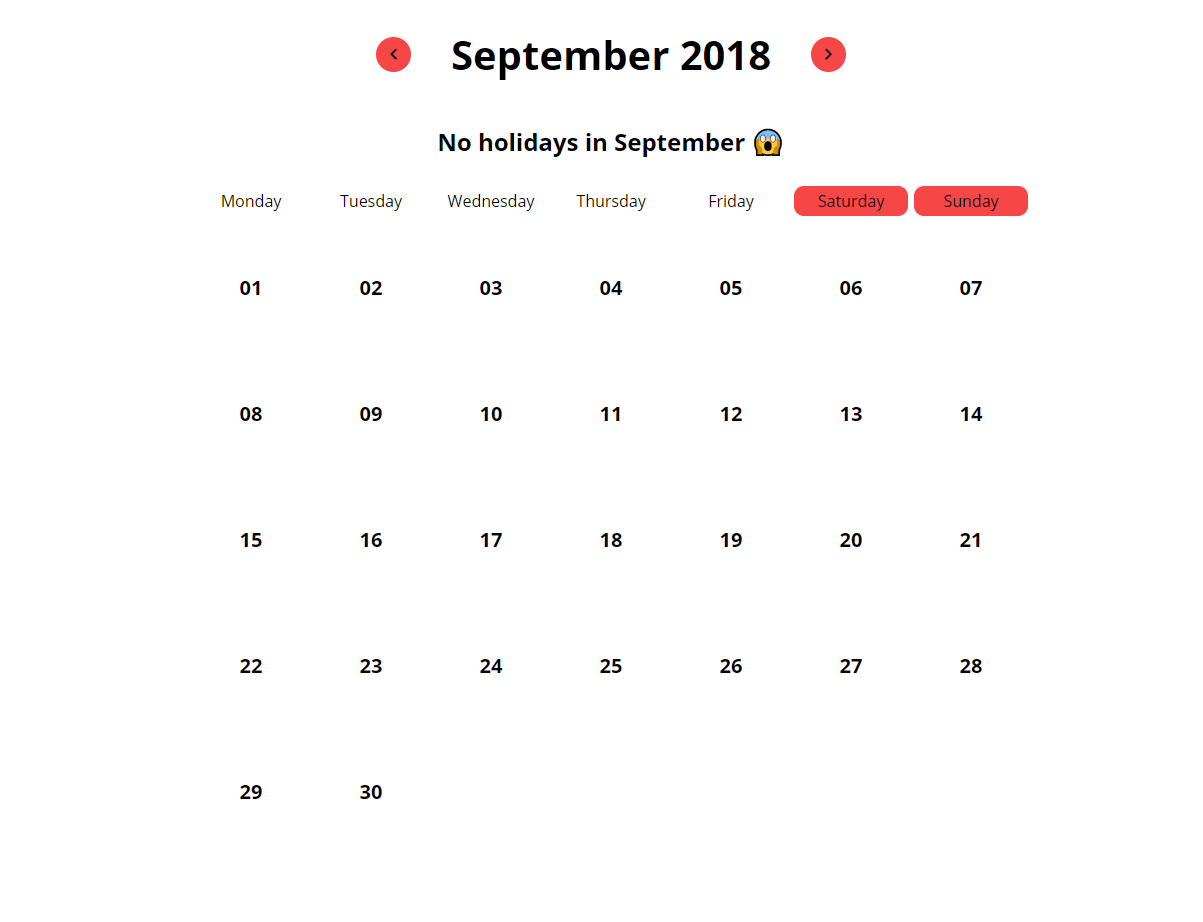
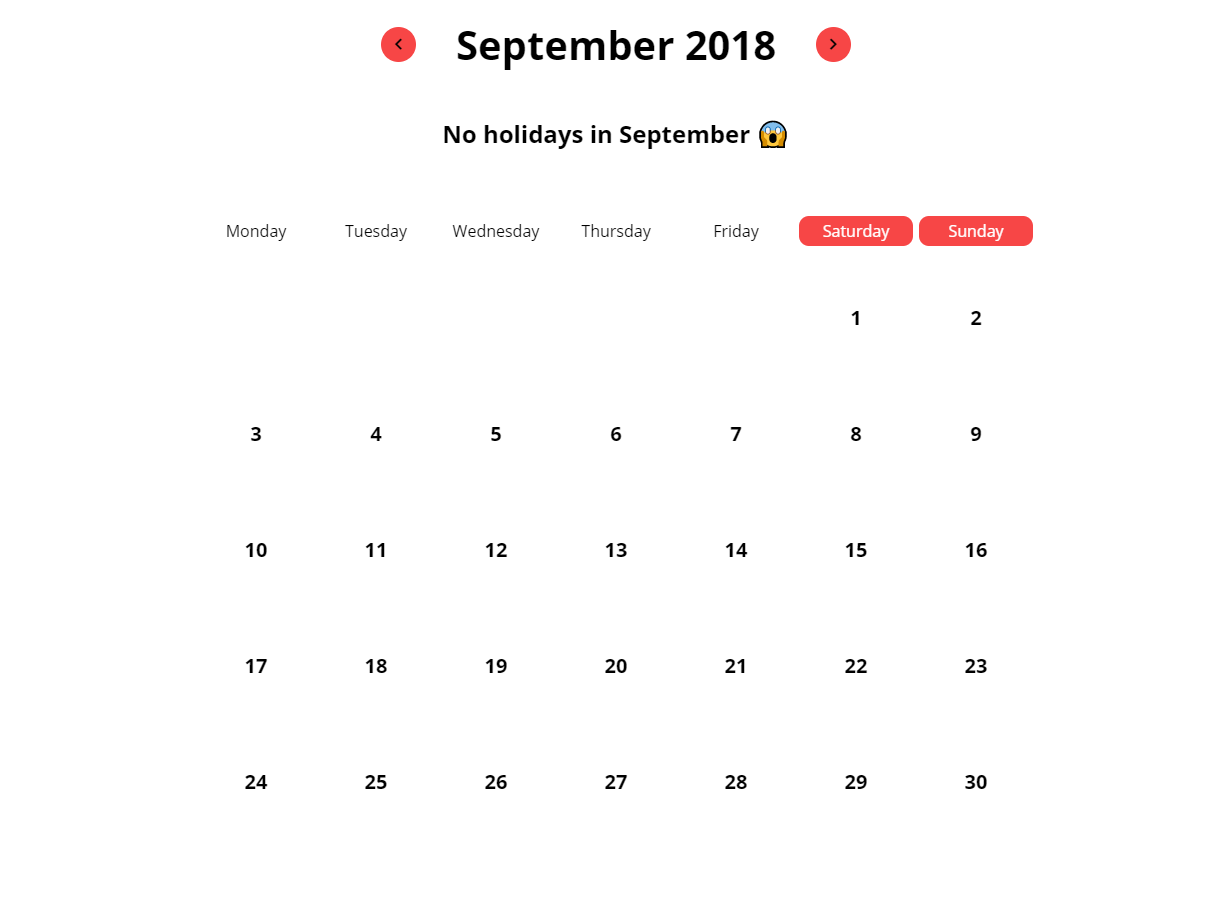
bug fixed - the month always starts on Monday. minor update

diff --git a/js/main.js b/js/main.js
@@ -32,7 +32,6 @@ $(document).ready(function () {
         if(baseMonth.month() < 11){
             //console.log(baseMonth.month())
             baseMonth = baseMonth.add(1,"M");
-            $('.month-list').children().remove();
             printMonth(template, baseMonth);
             printHoliday(baseMonth);
 
@@ -50,7 +49,6 @@ $(document).ready(function () {
         if(baseMonth.month() > 0){
             //console.log(baseMonth.month())
             baseMonth = baseMonth.subtract(1,"M");
-            $('.month-list').children().remove();
             printMonth(template, baseMonth);
             printHoliday(baseMonth);
 
@@ -70,6 +68,7 @@ $(document).ready(function () {
 
 // Stampa a schermo i giorni del mese
 function printMonth(template, date) {
+    $('.month-list').children().remove();
     // numero giorni nel mese
     var daysInMonth = date.daysInMonth();
 
@@ -78,6 +77,19 @@ function printMonth(template, date) {
 
     // Imposta data attribute data visualizzata
     $('.month').attr('data-this-date',  date.format('YYYY-MM-DD'));
+
+    //creazioni di blocchi vuoti
+    var inizioSettimana = date.weekday()-1;
+    for( var i = 0; i < inizioSettimana; i++) {
+        var data = {
+            dayNumber: '',
+            fullDate: ''
+        };
+
+        $('.month-list').append(template(data));
+    }
+
+
 
     // genera giorni mese
     for (var i = 0; i < daysInMonth; i++) {
@@ -90,8 +102,8 @@ function printMonth(template, date) {
 
         // imposta dati template
         var context = {
-            class: 'day',
-            day: thisDate.format('DD'),
+            class: thisDate.format('dddd').toLowerCase(),
+            day: thisDate.date(),
             completeDate: thisDate.format('YYYY-MM-DD')
         };
 
@@ -124,6 +136,7 @@ function printHoliday(date) {
     
                     if(listItem) {
                         listItem.addClass('holiday');
+                        
                         listItem.html( "<span>" + listItem.text() + "</span> " + "<span>" + thisHoliday.name + "</span> ")
                     }
                 }

diff --git a/css/main.css b/css/main.css
@@ -52,15 +52,15 @@ header{
 
 /* body */
 .head{
-    height: 15vh;
+    height: 13vh;
 }
 
 .no-event{
-    height: 10vh;
+    height: 8vh;
 }
 
 .foot{
-    height: 75vh;
+    height: 79vh;
     flex-direction: column;
 }
 
@@ -99,7 +99,6 @@ button{
 
 .month-list li span:nth-child(1){
     padding: 15px;
-    margin-bottom: 5px;
     font-weight: bold;
     font-size: 20px;
 }
@@ -107,12 +106,13 @@ button{
 .nome-giorni li:nth-child(6),
 .nome-giorni li:nth-child(7){
     background: #f74646;
+    color: white;
 }
 
 .nome-giorni li{
     background: white;
     line-height: 30px;
-    margin-bottom: 40px;
+    margin-bottom: 10px;
 }
 
 .month-list li{
